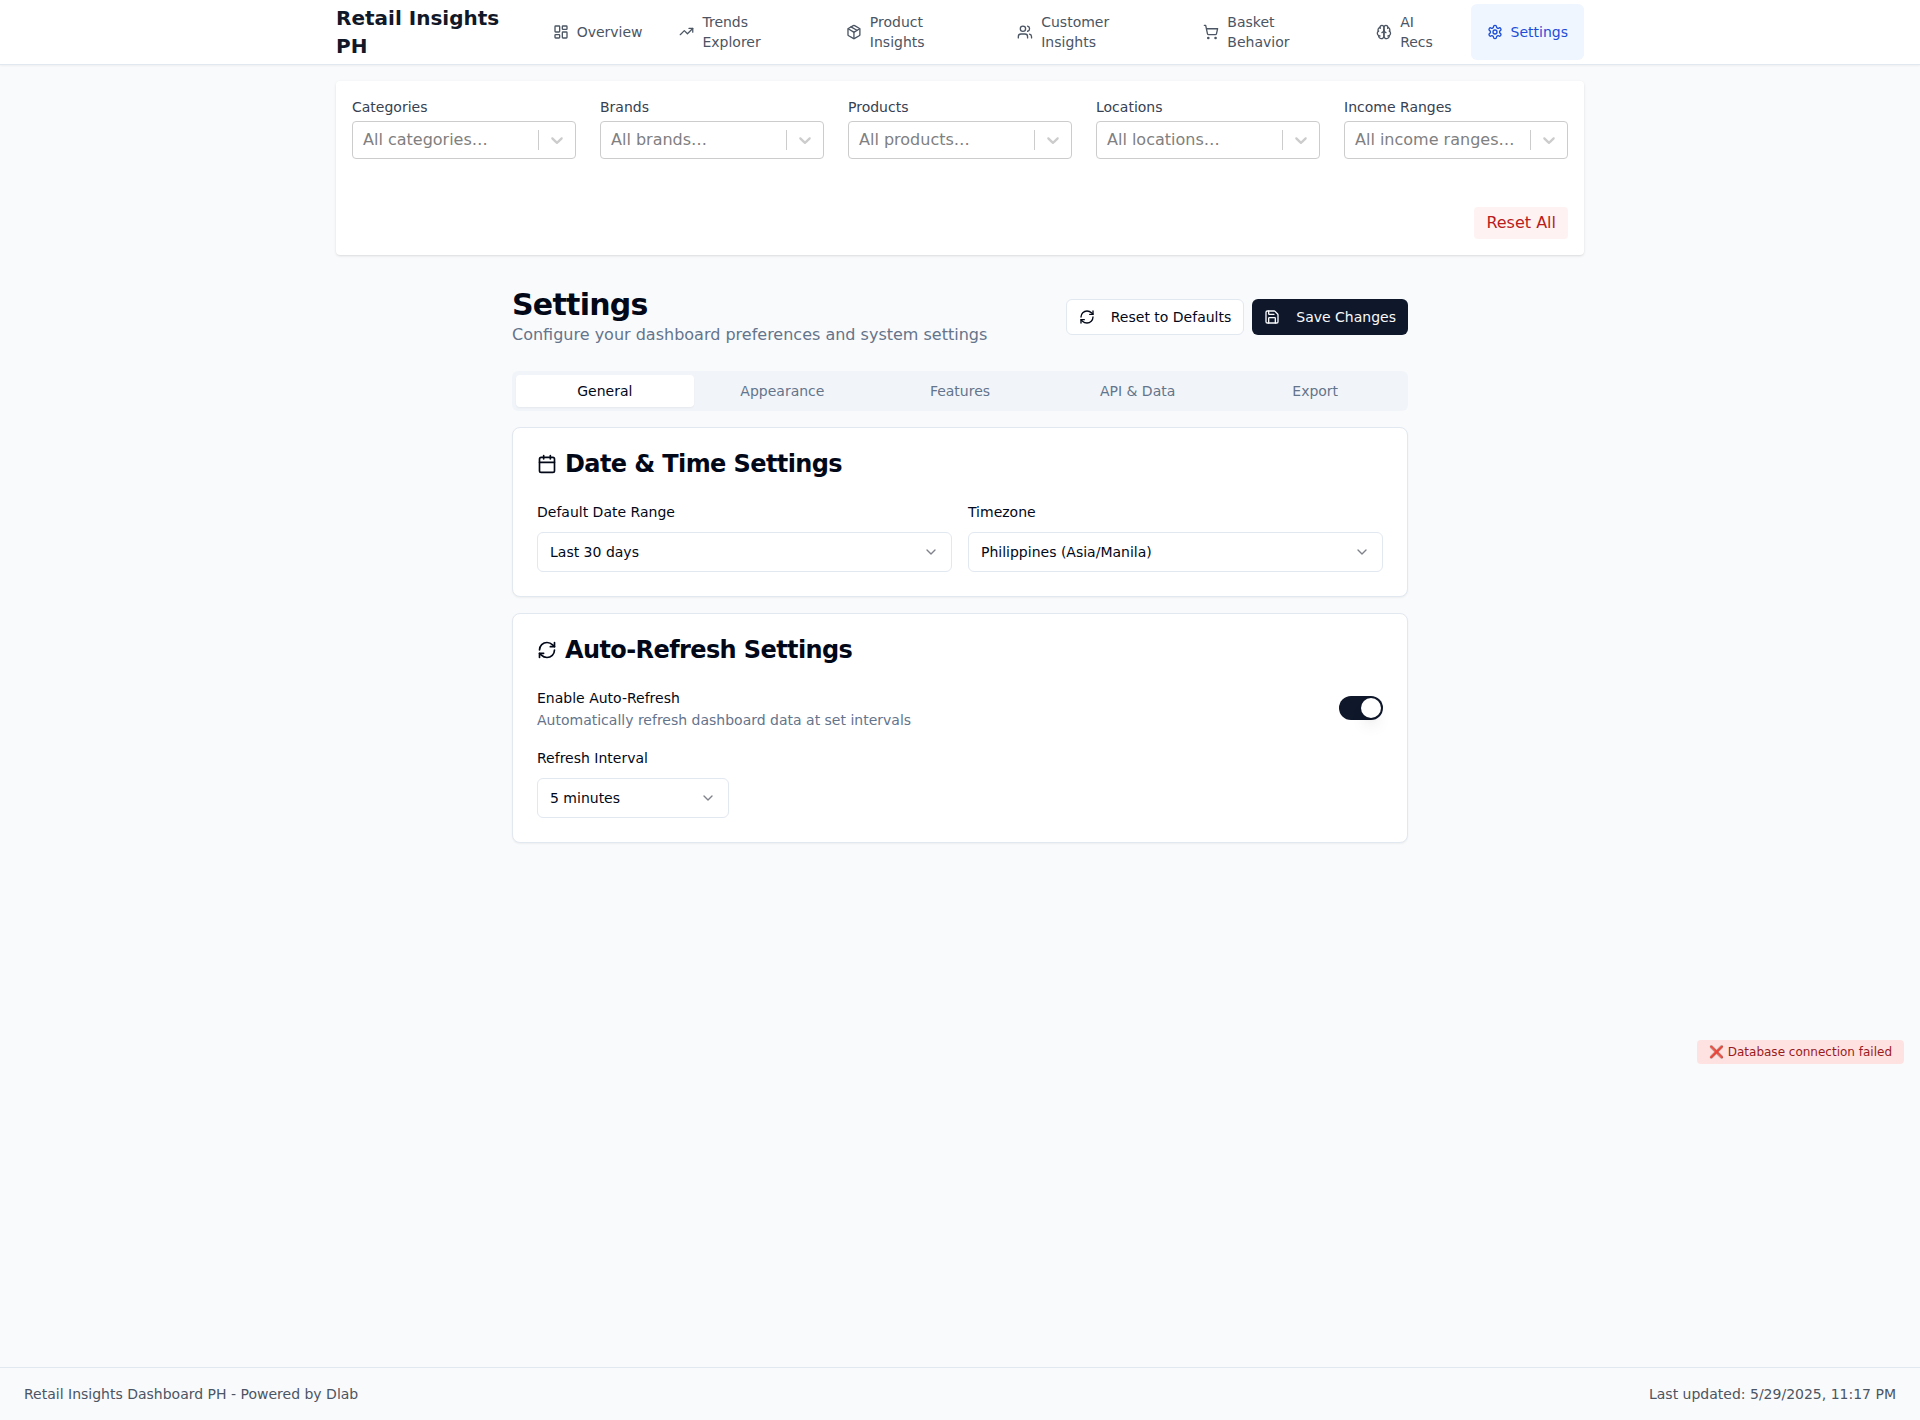
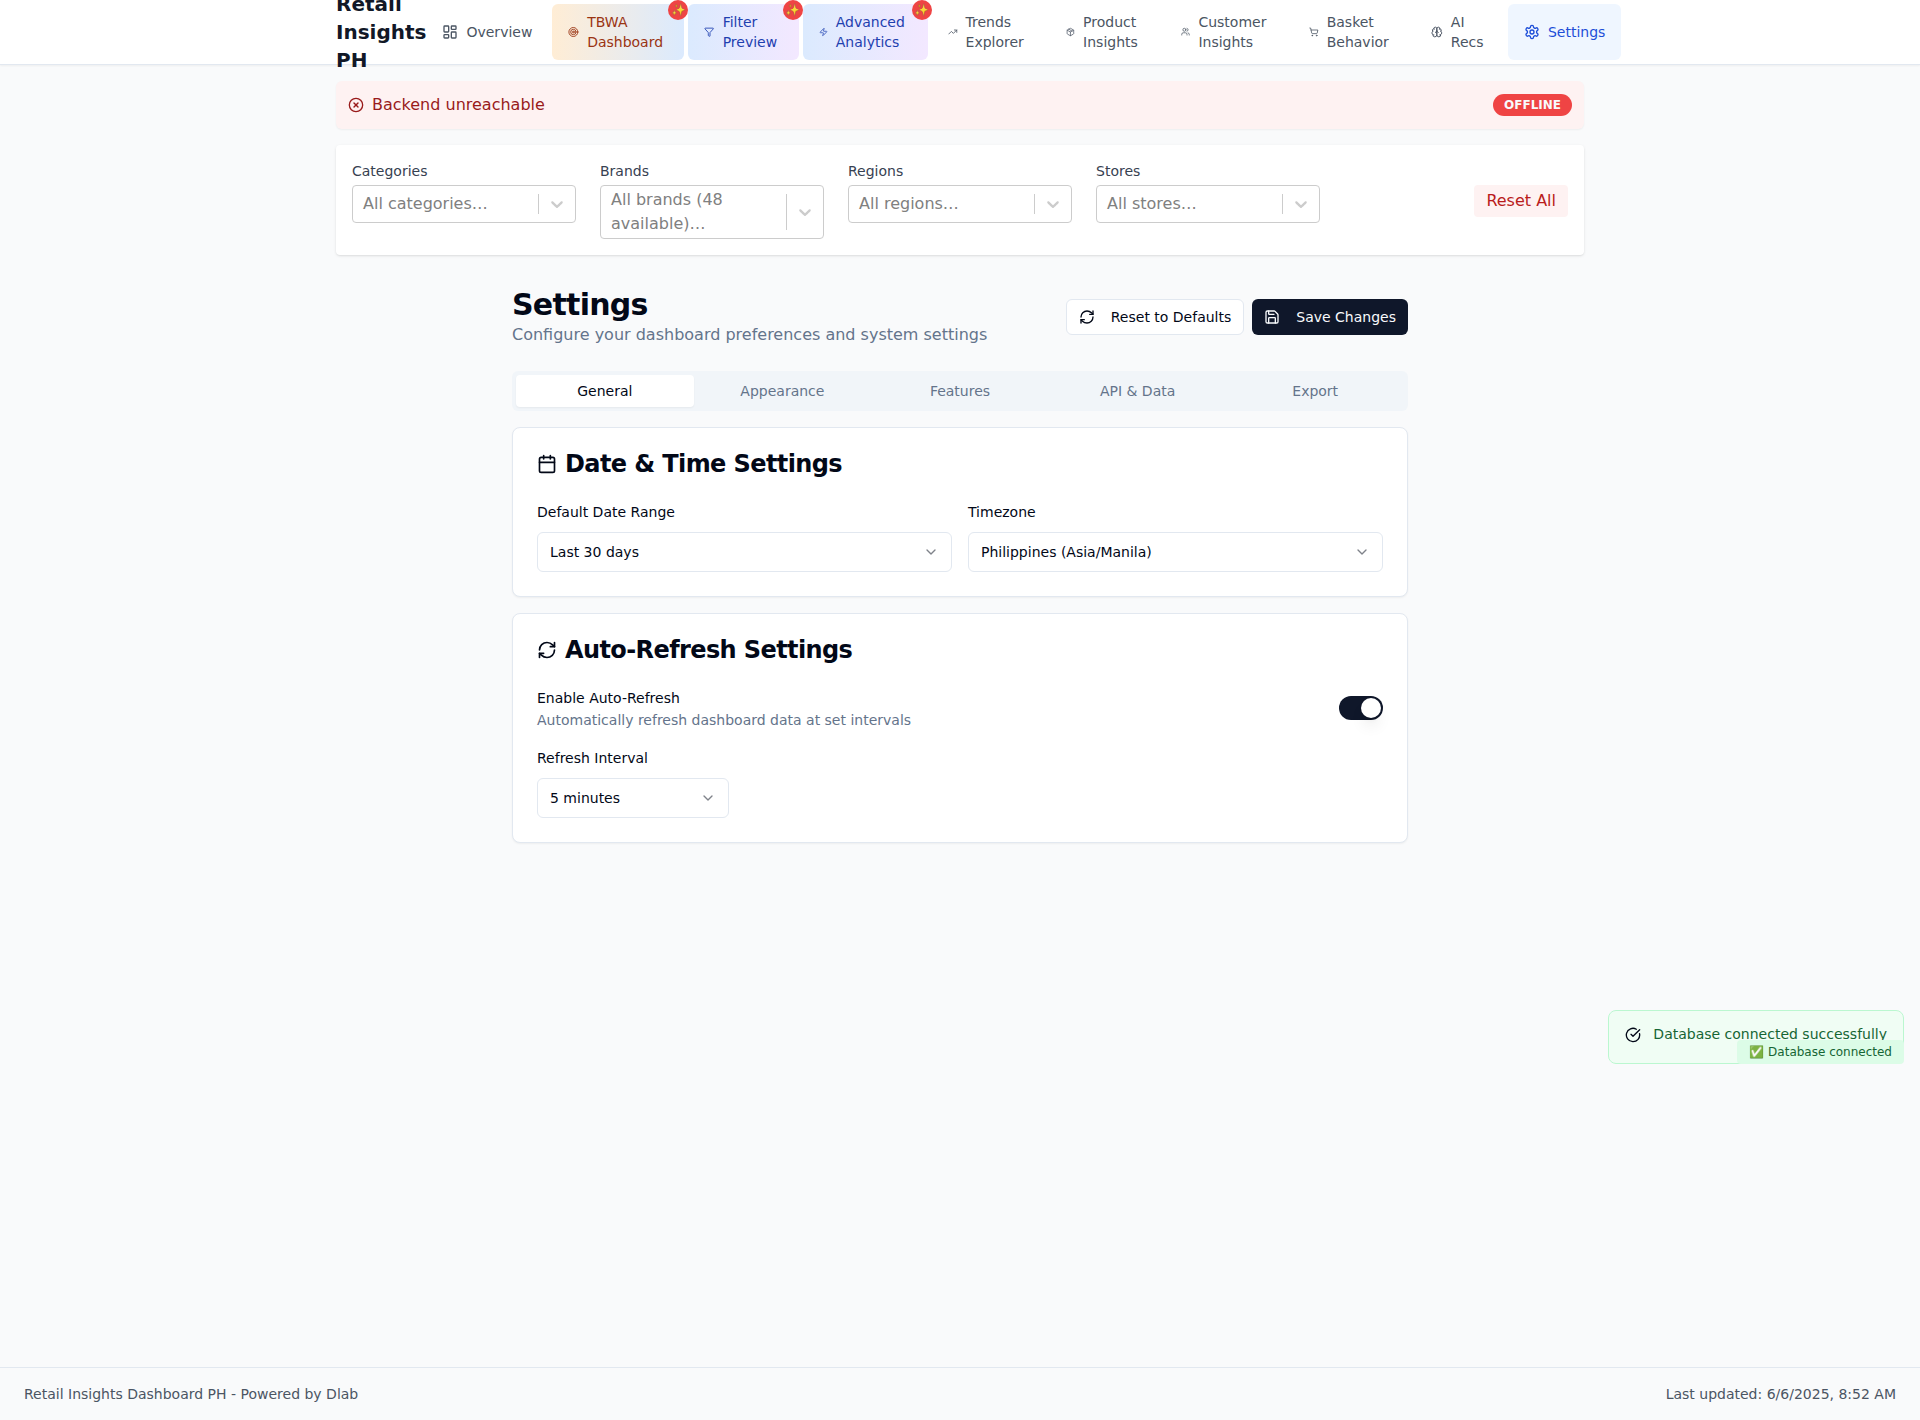
docs: add visual documentation for 9c7be37a9192990c8ba62051e8045ed9bdbfee4d

diff --git a/visual-docs/README.md b/visual-docs/README.md
@@ -1,8 +1,23 @@
 # Visual Documentation
 
-**Generated:** 2025-06-05T08:49:27.658Z
-**Commit:** `454a619b9ace199dae6ad4bfa4107cde227d9a7c`
-**Message:** 🔥 CRITICAL FIX: useFilters hook - Rules of Hooks violation causing infinite loops
+**Generated:** 2025-06-06T00:53:47.100Z
+**Commit:** `9c7be37a9192990c8ba62051e8045ed9bdbfee4d`
+**Message:** 🔒 Implement MCP (Managed Connection Proxy) integration
+
+- Added /pages/api/getMcpToken.js serverless endpoint
+- Updated Supabase client with MCP support and fallback mechanism
+- Created comprehensive MCP setup guide and test script
+- Implements secure short-lived JWT tokens for enhanced security
+- Automatic fallback to standard client if MCP fails
+- Zero downtime deployment - existing functionality preserved
+
+Benefits:
+✅ Enhanced security with short-lived tokens
+✅ Better connection pooling and performance
+✅ Audit trail and monitoring capabilities
+✅ Zero risk with automatic fallback mechanism
+
+Setup: Configure VITE_SUPABASE_MCP_URL in Vercel to enable MCP
 
 ## 📱 Screenshots
 
@@ -21,17 +36,35 @@ Main dashboard with KPIs and transaction trends
 
 </details>
 
-### Brands Page
+### Trends Explorer
 
-Brand analytics and performance tracking
+Advanced trend analysis with multiple metrics
 
-![Brands Page](./brands-page.png)
+![Trends Explorer](./trends-explorer.png)
 
-### Product Mix Page
+<details>
+<summary>Component Details</summary>
 
-Product performance analysis
+#### kpi metrics
 
-![Product Mix Page](./product-mix-page.png)
+![kpi-metrics](./trends-explorer-kpi-metrics.png)
+
+</details>
+
+### Settings Configuration
+
+Dashboard settings and feature flags
+
+![Settings Configuration](./settings-configuration.png)
+
+<details>
+<summary>Component Details</summary>
+
+#### kpi metrics
+
+![kpi-metrics](./settings-configuration-kpi-metrics.png)
+
+</details>
 
 ---
 
